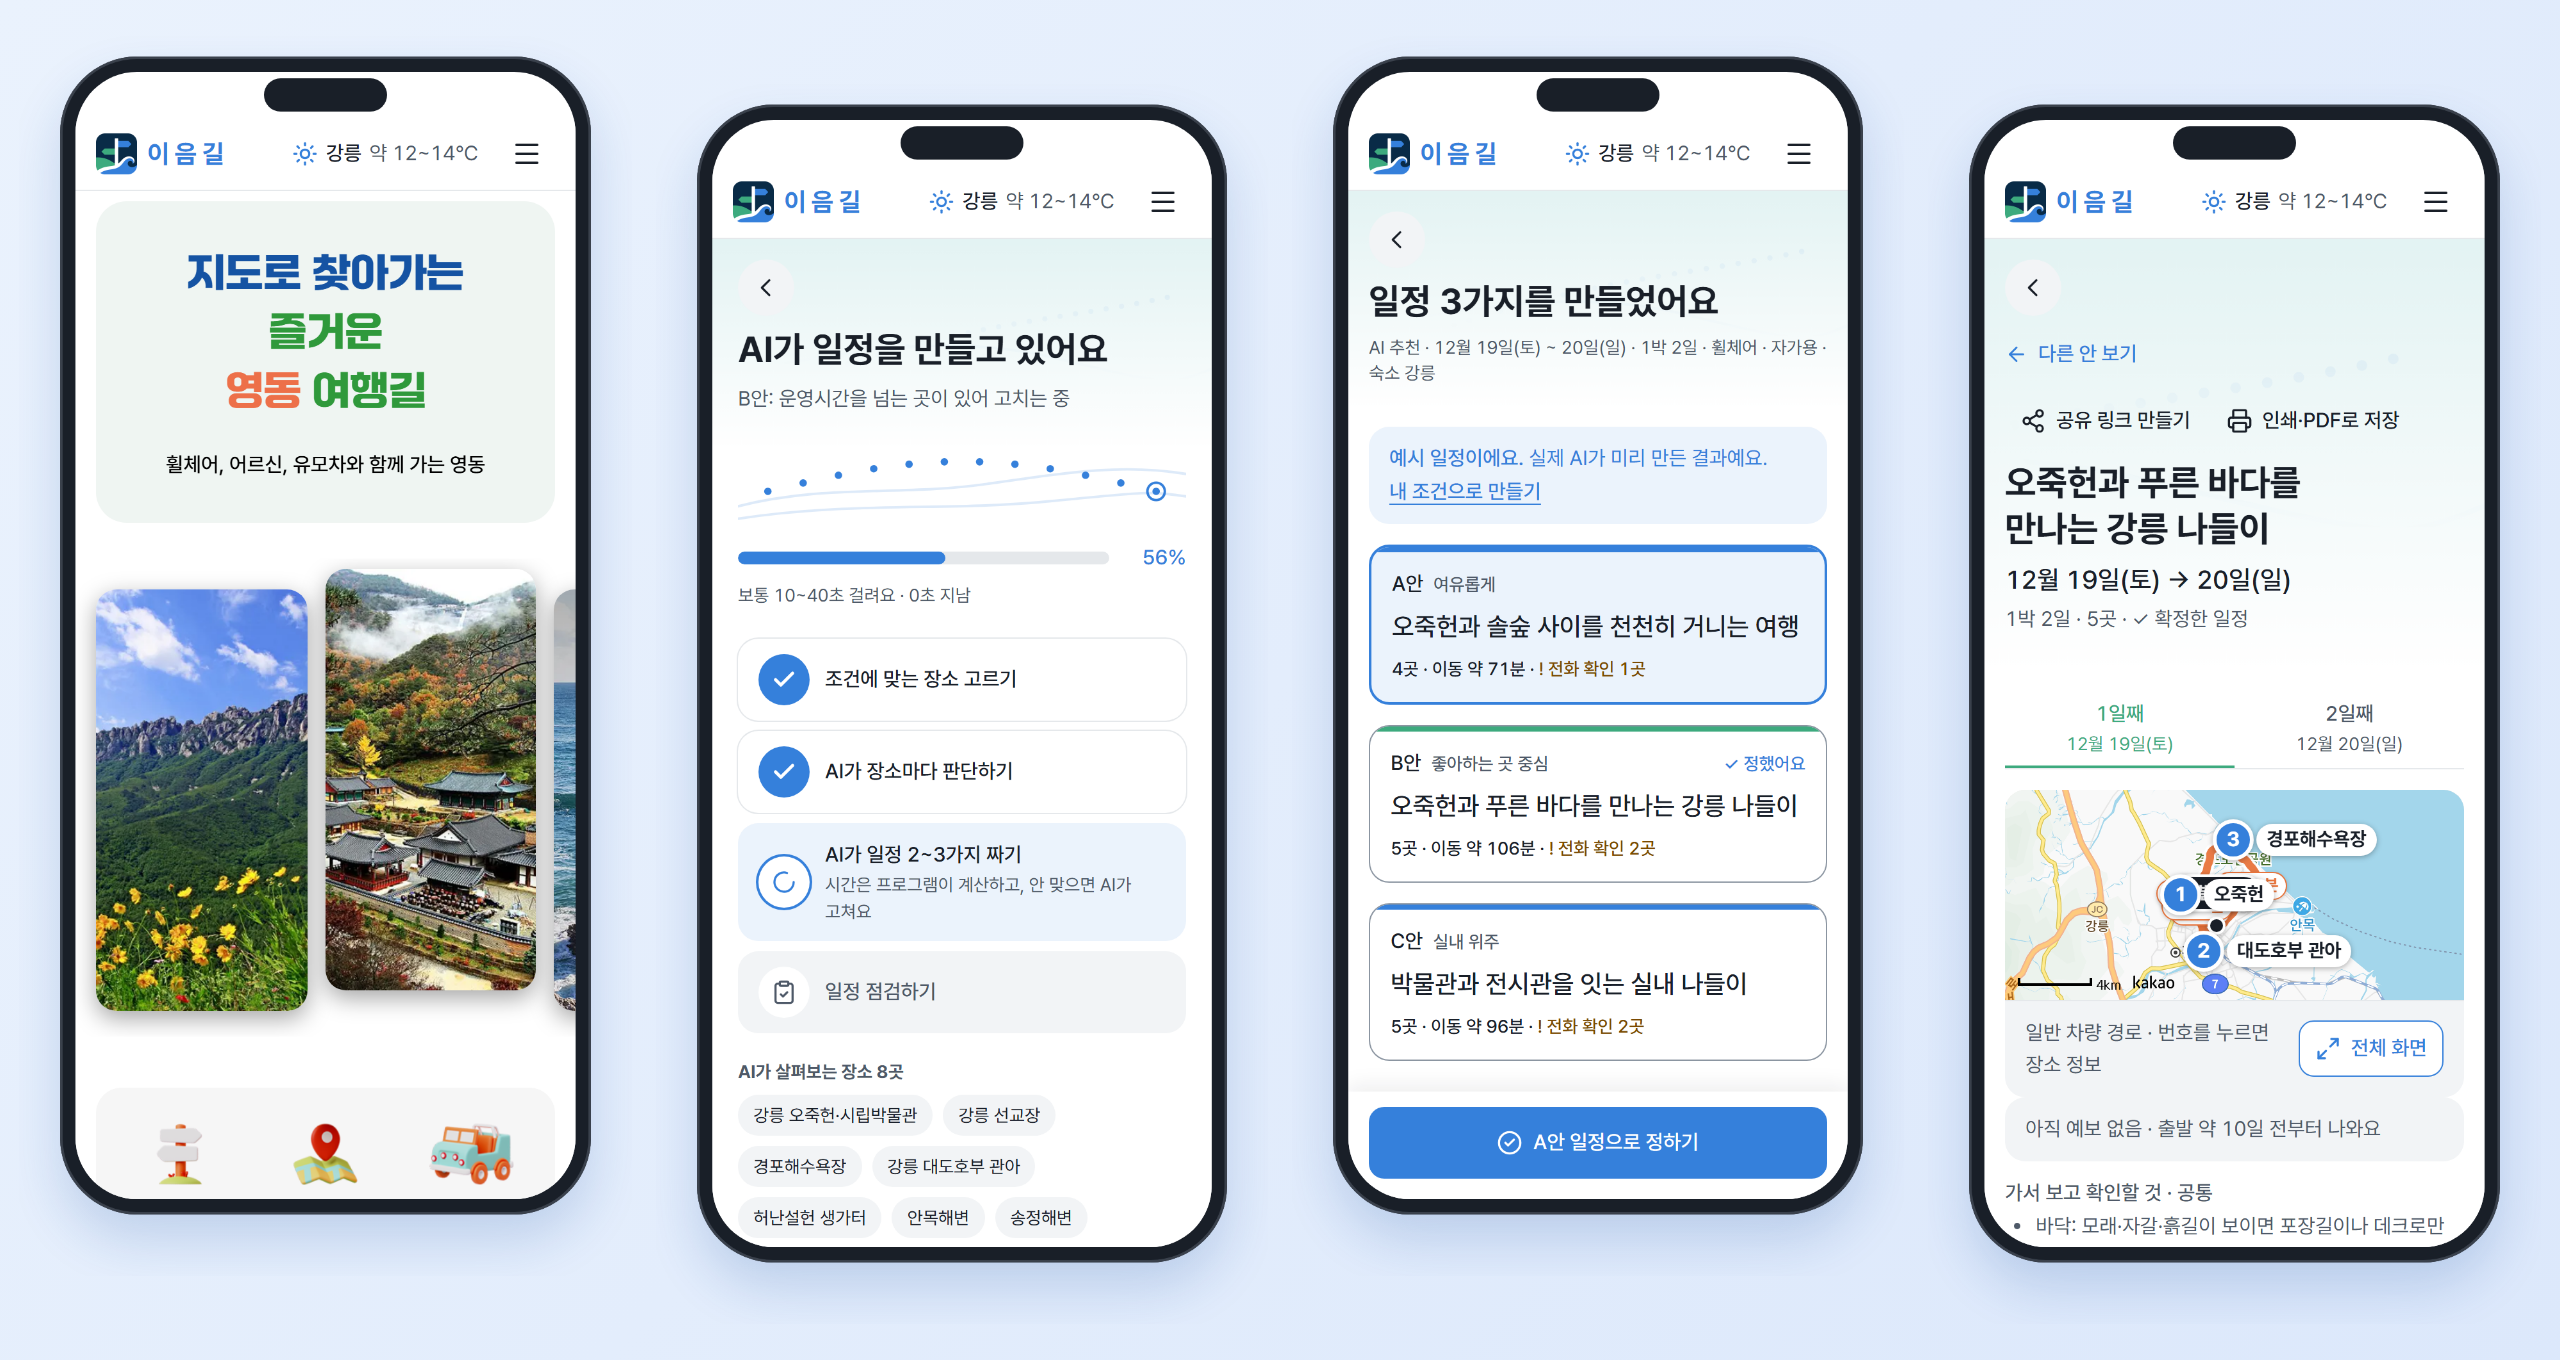
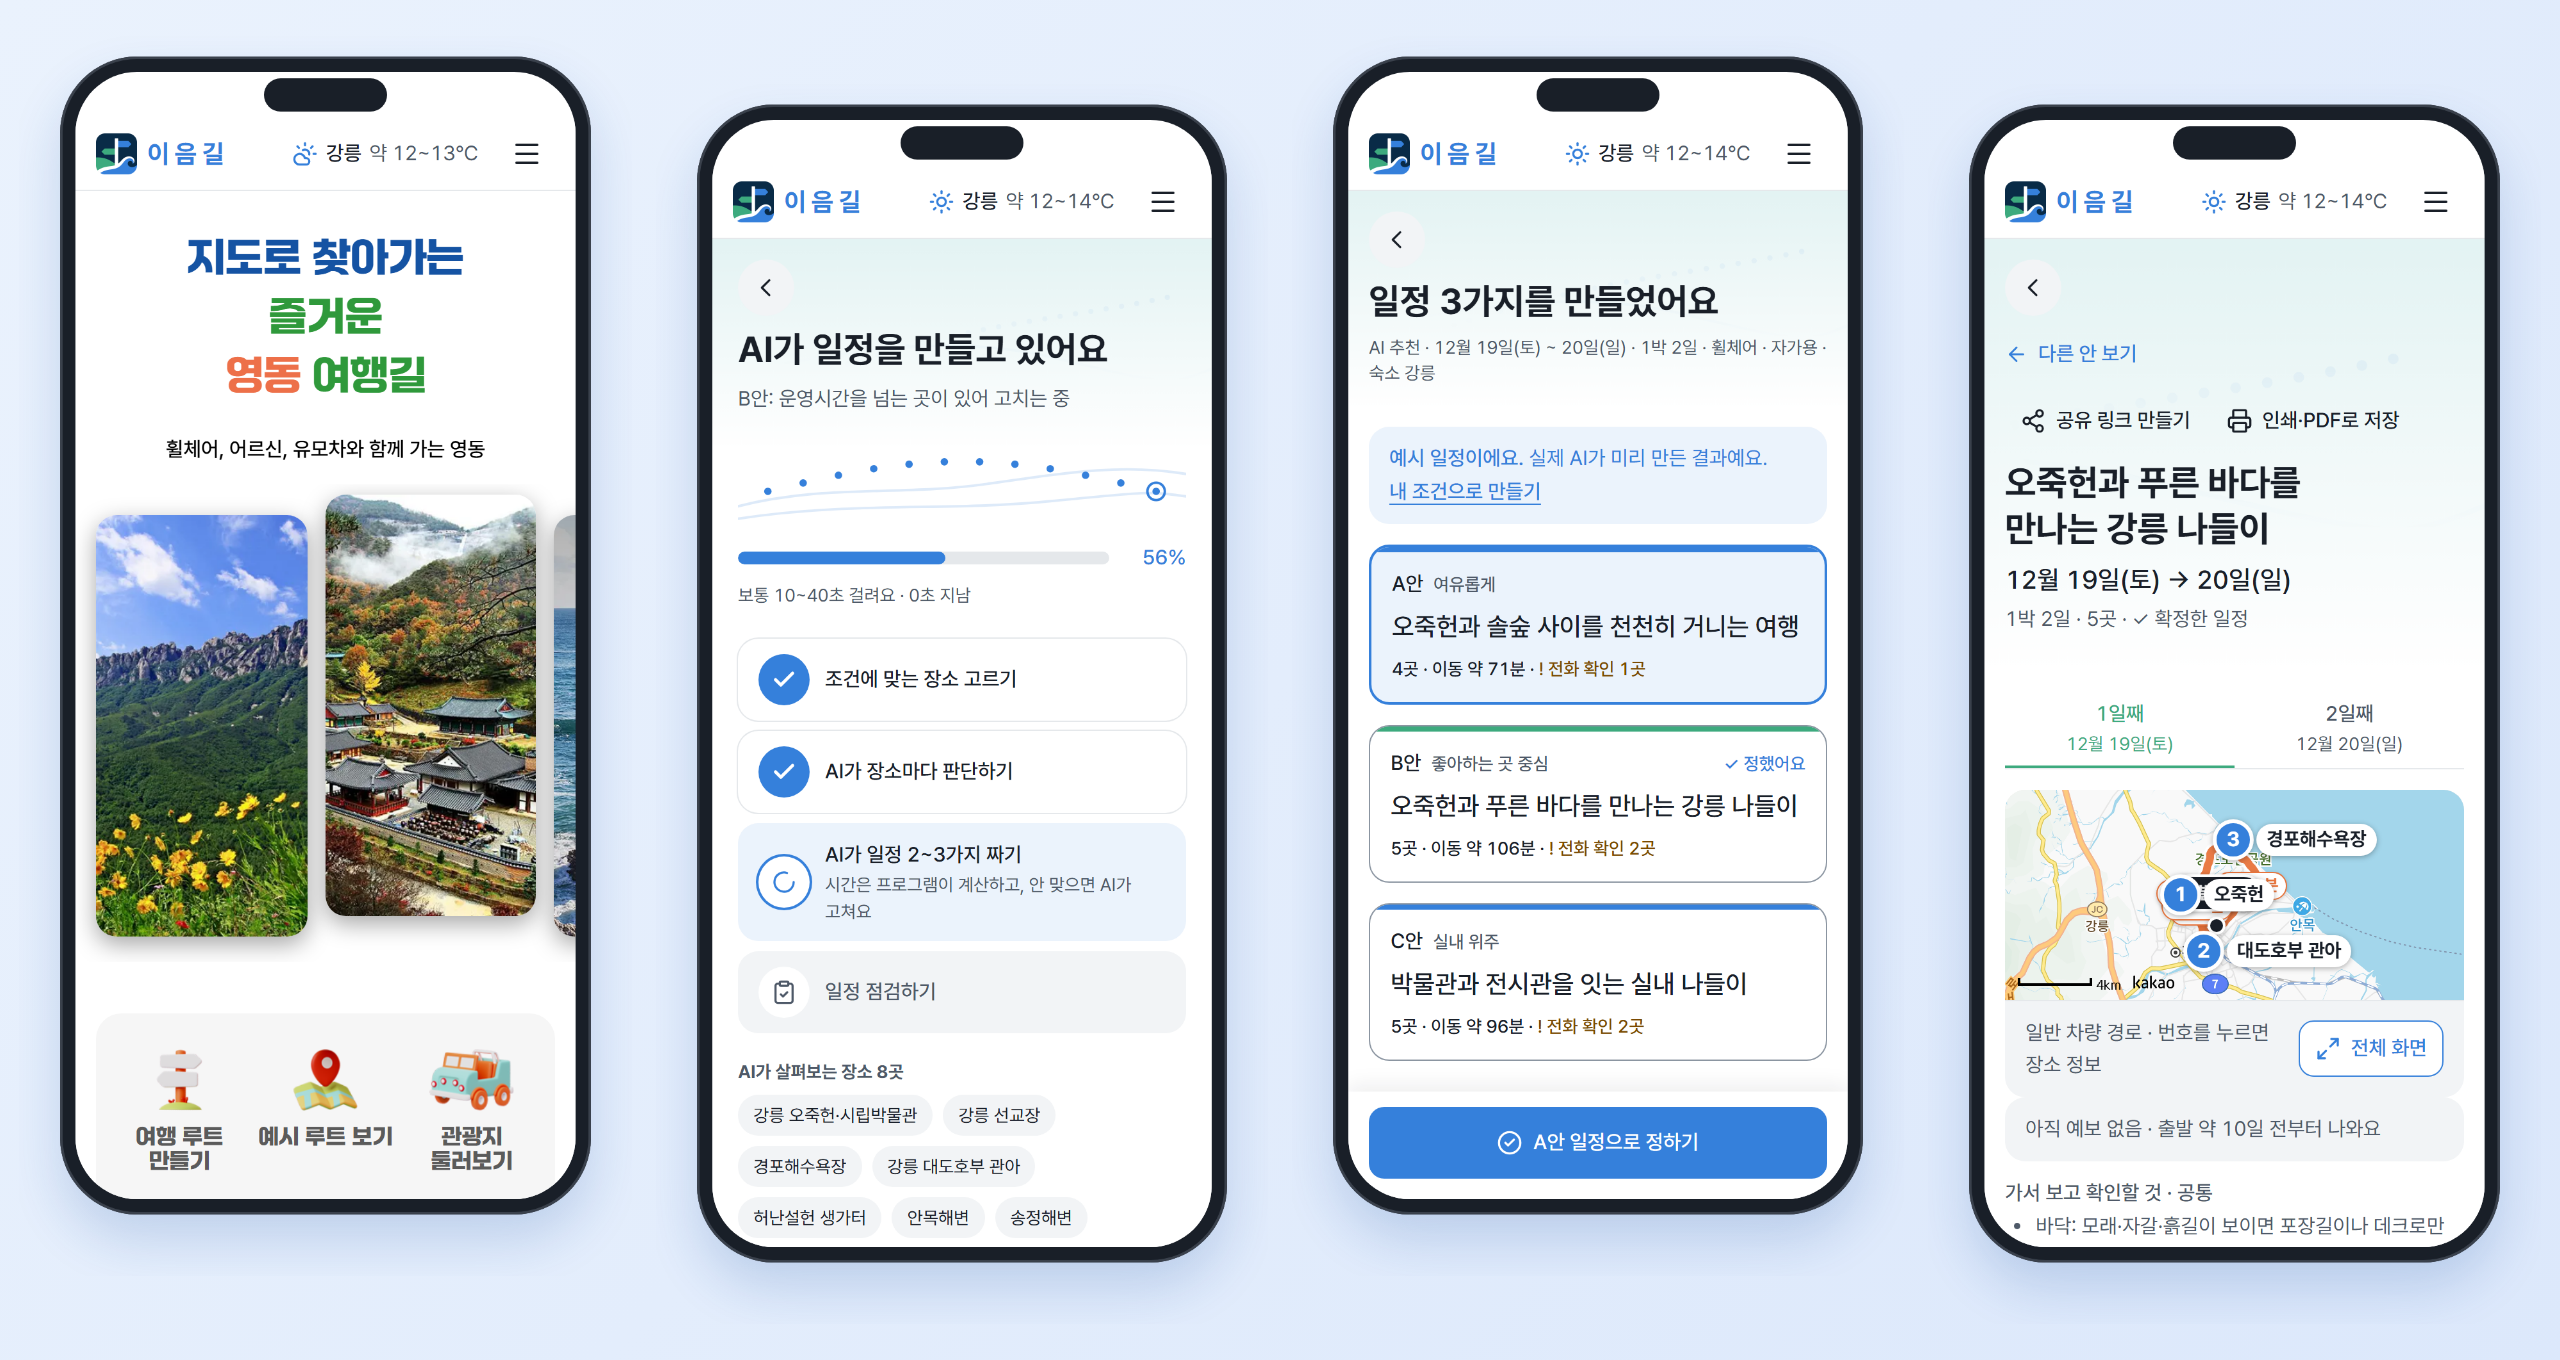
fix: 휴대폰 메뉴가 화면을 고르면 저절로 닫히게 · 휴대폰 히어로는 민트 상자 바탕 없이
- ☰ 메뉴(<details>)는 화면이 바뀌어도 머리줄이 그대로 남아 열린 채였다 → 메뉴 링크를 누르면 닫음
- 767px 이하에서는 히어로 문구 상자의 민트 바탕을 빼고 글자만(PC·태블릿은 반투명 상자 그대로)
- 화면 흐름 테스트: 메뉴에서 이동하면 닫히는지, 상자 바탕이 PC 0.5 · 휴대폰 없음인지(먼저 실패 확인)
- README 휴대폰 시작 화면 캡처와 표지 다시 찍음

Changed region(s): [[0.0312, 0.1544, 0.25, 0.8647]]

diff --git a/src/components/SiteNav.tsx b/src/components/SiteNav.tsx
@@ -31,7 +31,13 @@ function NavList({ items, variant, pathname }: { items: NavItem[]; variant: Vari
         const current = pathname !== null && isCurrent(pathname, m.href, variant === "menu" && m.href === "/about");
         return (
           <li key={m.href}>
-            <Link href={m.href} aria-current={current ? "page" : undefined} className={LINK_CLASS[variant]}>
+            <Link
+              href={m.href}
+              aria-current={current ? "page" : undefined}
+              className={LINK_CLASS[variant]}
+              // 휴대폰 ☰ 메뉴(<details>)는 화면이 바뀌어도 머리줄이 그대로 남아 열린 채였다 → 고르면 닫는다(11/27)
+              onClick={variant === "menu" ? (e) => e.currentTarget.closest("details")?.removeAttribute("open") : undefined}
+            >
               {m.label}
             </Link>
           </li>

diff --git a/src/app/globals.css b/src/app/globals.css
@@ -860,11 +860,13 @@ label:has(input[type="checkbox"]) {
   .home-hero__canvas {
     padding: 0;
   }
+  /* 휴대폰은 민트 바탕을 빼고 글자만(11/27 사용자). PC·태블릿은 반투명 상자 그대로 */
   .home-hero__box {
     width: auto;
-    margin: 0 1rem 28px;
-    padding: 36px 16px 34px;
-    border-radius: 24px;
+    margin: 0 1rem 8px;
+    padding: 24px 0 8px;
+    border-radius: 0;
+    background: transparent;
   }
   .home-hero__title {
     font-size: 30px;
